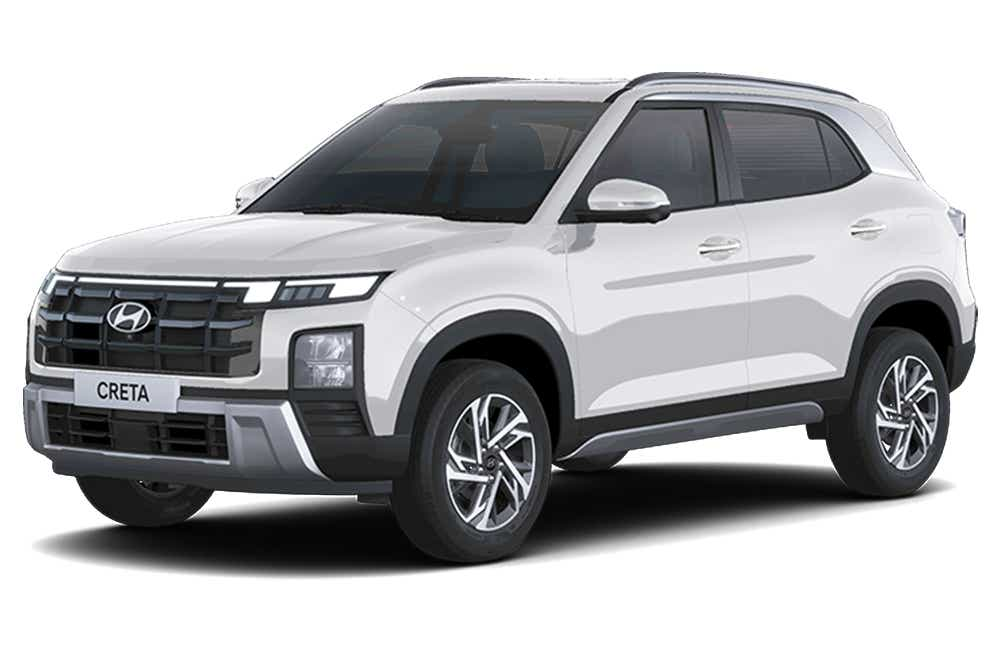
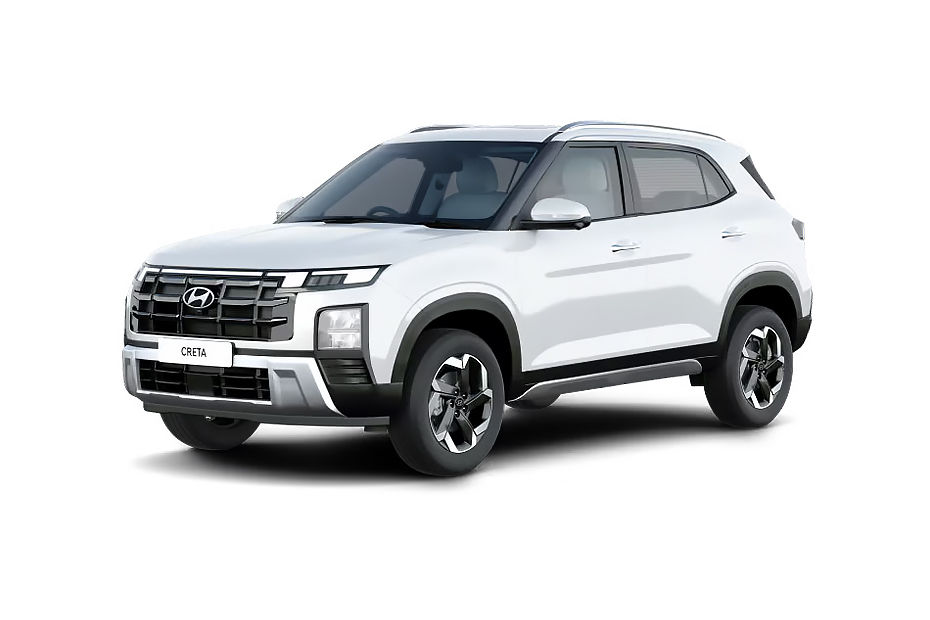
feat: integrate Hyundai Creta interactive image carousel and color swatches
- Replace Creta's single Wikipedia fallback URL with 9 per-colour local paths
  sourced from CarDekho via Playwright scraper (930px CDN images downloaded)
- Update _CRETA_COLORS to reflect actual 2nd-gen paint options (Robust Emerald
  Pearl, Atlas White With Titanium Black, Titanium Black Matte, Titan Grey Matte,
  Starry Night, Atlas White, Titan Grey, Titanium Black, King Limited Edition)
- Add hex swatches for all 9 colours to COLOR_HEX in CarDetail.jsx, sourced
  directly from CarDekho's swatch background-color values
- isBlack flip in GalleryViewer auto-applies to titanium-black variants via
  filename match — no additional code needed
- All 8 Vitest unit tests pass (✓ build 335ms)

diff --git a/frontend/src/pages/CarDetail.jsx b/frontend/src/pages/CarDetail.jsx
@@ -81,6 +81,15 @@ const COLOR_HEX = {
   'Deep Forest':              '#1F6B2E',
   'Mystic Olive':             '#6B7C3D',
   'Savannah Green':           '#5D7A3E',
+  'Robust Emerald Pearl':     '#192219',
+  // ── Creta dual-tone / matte ───────────────────────────────────────────────
+  'Atlas White With Titanium Black':              '#D6DCE3',
+  'Titanium Black Matte':                         '#31363B',
+  'Titan Grey Matte':                             '#474D4E',
+  'Starry Night':                                 '#05142B',
+  'Titan Grey':                                   '#76777A',
+  'Titanium Black':                               '#131415',
+  'King Limited Edition Titanium Black Matte':    '#2A2D30',
   // ── Ambers / Browns / Beiges ─────────────────────────────────────────────────
   'Robust Amber':             '#C4720A',
   'Burnt Sienna':             '#C7522A',

diff --git a/backend/database/cars_data.py b/backend/database/cars_data.py
@@ -2,8 +2,8 @@
 # Metadata (brand history, lineage, sales) lives in car_metadata.py — one entry
 # per model, merged by main.py. Archived 27 models are in cars_data_archived.py.
 
-_CRETA_COLORS = ['Atlas White', 'Abyss Black Pearl', 'Titan Grey', 'Stellar Silver', 'Fiery Red', 'Robust Amber', 'Mystic Olive', 'Stargazing Blue']
-_CRETA_IMGS   = ['https://upload.wikimedia.org/wikipedia/commons/5/51/Moscow%2C_Hyundai_Creta_%282nd_gen%29_Aug_2025_01_%28cropped%29.jpg']
+_CRETA_COLORS = ['Robust Emerald Pearl', 'Atlas White With Titanium Black', 'Titanium Black Matte', 'Titan Grey Matte', 'Starry Night', 'Atlas White', 'Titan Grey', 'Titanium Black', 'King Limited Edition Titanium Black Matte']
+_CRETA_IMGS   = {'Robust Emerald Pearl': '/images/hyundai-creta-robust-emerald-pearl.jpg', 'Atlas White With Titanium Black': '/images/hyundai-creta-atlas-white-with-titanium-black.jpg', 'Titanium Black Matte': '/images/hyundai-creta-titanium-black-matte.jpg', 'Titan Grey Matte': '/images/hyundai-creta-titan-grey-matte.jpg', 'Starry Night': '/images/hyundai-creta-starry-night.jpg', 'Atlas White': '/images/hyundai-creta-atlas-white.jpg', 'Titan Grey': '/images/hyundai-creta-titan-grey.jpg', 'Titanium Black': '/images/hyundai-creta-titanium-black.jpg', 'King Limited Edition Titanium Black Matte': '/images/hyundai-creta-king-limited-edition-titanium-black-matte.jpg'}
 _XUV700_COLORS = ['Everest White', 'Midnight Black', 'Electric Blue', 'Dazzling Silver', 'Red Rage', 'Burnt Sienna', 'Deep Forest']
 _XUV700_IMGS   = ['https://upload.wikimedia.org/wikipedia/commons/b/ba/2021_Mahindra_XUV700_2.2_AX7_%28India%29_front_view.png']
 _NEXON_COLORS = ['Pristine White', 'Daytona Grey', 'Flame Red', 'Calgary White', 'Fearless Purple', 'Creative Ocean', 'Savannah Green', 'Dune']
